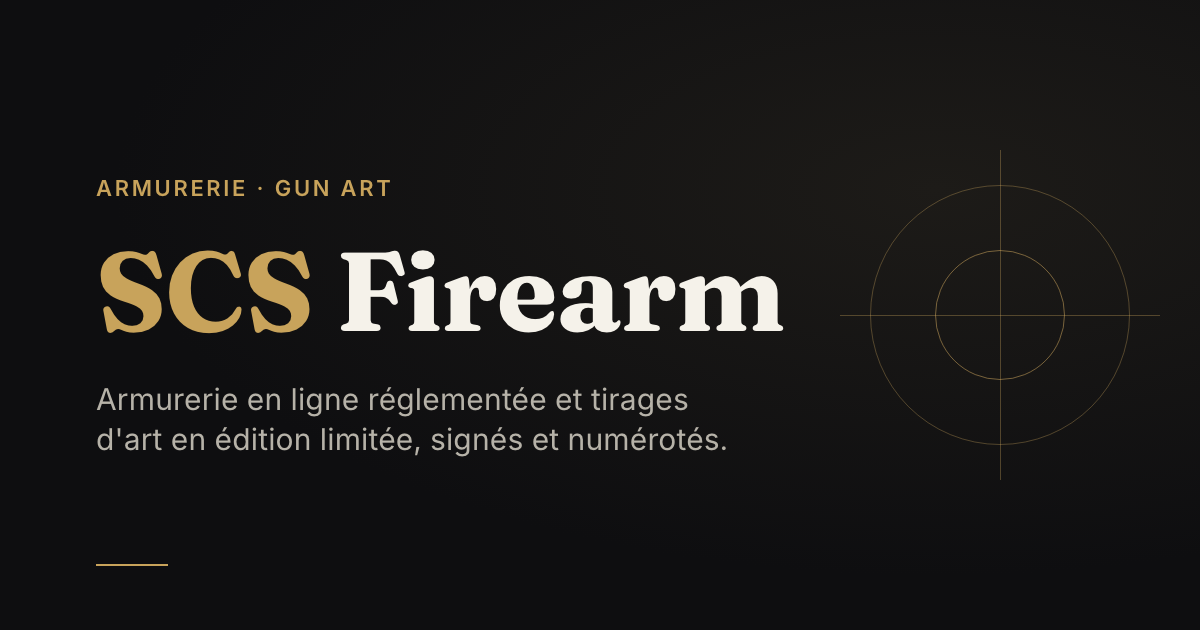
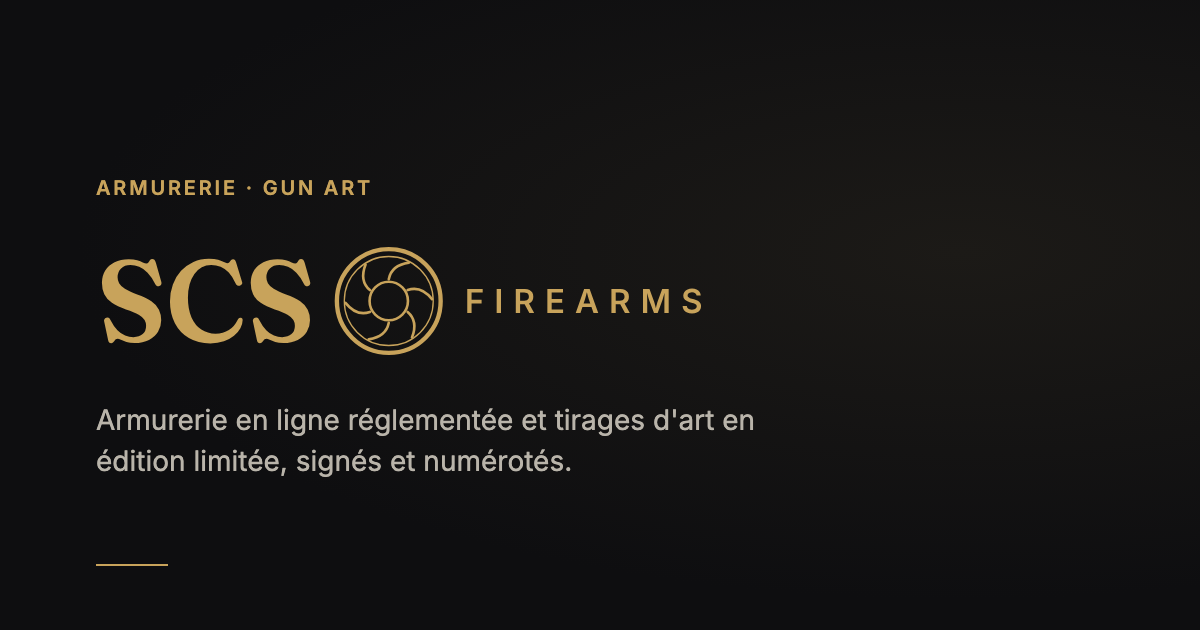
chore(brand): the brand name is "SCS Firearms"
The logo reads SCS FIREARMS, the site said "SCS Firearm": the logo is
right. Every displayed occurrence follows (titles, SEO and structured
data, e-mails, legal pages, CGV, manifest, docs). Technical identifiers
(Docker project, local admin e-mail, folders, user agents) are left as
they are.

- CURRENT_TERMS_VERSION bumped to 2026-10-08: the CGV wording changed.
- og-default.png redrawn with the logo itself.

diff --git a/packages/shared/src/terms-content.ts b/packages/shared/src/terms-content.ts
@@ -41,7 +41,7 @@ export const TERMS_SECTIONS: TermsSection[] = [
     title: "1. Objet et vendeur",
     blocks: [
       p(
-        "Les présentes conditions régissent les ventes conclues sur le site SCS Firearm entre ",
+        "Les présentes conditions régissent les ventes conclues sur le site SCS Firearms entre ",
         f("companyName", "raison sociale"),
         ", ",
         f("legalForm", "forme juridique"),
@@ -49,16 +49,16 @@ export const TERMS_SECTIONS: TermsSection[] = [
         f("siret", "SIRET"),
         ", dont le siège est situé ",
         f("address", "adresse postale"),
-        " (« SCS Firearm »), et toute personne physique achetant en qualité de consommateur (« le client »). Leurs coordonnées complètes figurent dans les ",
+        " (« SCS Firearms »), et toute personne physique achetant en qualité de consommateur (« le client »). Leurs coordonnées complètes figurent dans les ",
         a("mentions légales", "/mentions-legales"),
         ".",
       ),
       p(
         "Le site réunit deux univers : l'",
         b("armurerie"),
-        " (armes, munitions, accessoires, armes de collection), vendue par SCS Firearm, et la galerie ",
+        " (armes, munitions, accessoires, armes de collection), vendue par SCS Firearms, et la galerie ",
         b("Gun Art"),
-        " (tirages d'art), vendue par SCS Firearm pour le compte de l'artiste. Les articles 1 à 11 s'appliquent à tous les achats ; l'article 12 ajoute les règles propres aux articles réglementés, l'article 13 celles propres aux tirages Gun Art.",
+        " (tirages d'art), vendue par SCS Firearms pour le compte de l'artiste. Les articles 1 à 11 s'appliquent à tous les achats ; l'article 12 ajoute les règles propres aux articles réglementés, l'article 13 celles propres aux tirages Gun Art.",
       ),
       p(
         "Le client accepte ces conditions en cochant la case prévue à cet effet avant de commander. La version acceptée est enregistrée avec la commande et lui est adressée avec la confirmation de commande : c'est elle qui s'applique à cette commande, même si le texte évolue ensuite.",
@@ -122,7 +122,7 @@ export const TERMS_SECTIONS: TermsSection[] = [
       list(
         [
           b("par carte bancaire"),
-          ", pour les armes de catégorie D, les articles en vente libre et les tirages Gun Art. Le paiement est traité par notre prestataire Stripe : SCS Firearm n'a jamais connaissance des numéros de carte ;",
+          ", pour les armes de catégorie D, les articles en vente libre et les tirages Gun Art. Le paiement est traité par notre prestataire Stripe : SCS Firearms n'a jamais connaissance des numéros de carte ;",
         ],
         [
           b("par virement bancaire"),
@@ -132,7 +132,7 @@ export const TERMS_SECTIONS: TermsSection[] = [
         ],
       ),
       p(
-        "Une commande qui mêle les deux types d'articles est réglée en deux parties, dont le détail s'affiche après la commande. Les articles restent la propriété de SCS Firearm (ou, pour un tirage Gun Art, de l'artiste) jusqu'au paiement complet de leur prix.",
+        "Une commande qui mêle les deux types d'articles est réglée en deux parties, dont le détail s'affiche après la commande. Les articles restent la propriété de SCS Firearms (ou, pour un tirage Gun Art, de l'artiste) jusqu'au paiement complet de leur prix.",
       ),
     ],
   },
@@ -203,7 +203,7 @@ export const TERMS_SECTIONS: TermsSection[] = [
     title: "10. Responsabilité",
     blocks: [
       p(
-        "SCS Firearm n'est pas responsable de l'inexécution d'une commande due au client, au fait imprévisible et insurmontable d'un tiers, ou à un cas de force majeure. Le client reste seul responsable de l'usage, de la détention et du transport des articles achetés, dans le respect de la réglementation en vigueur.",
+        "SCS Firearms n'est pas responsable de l'inexécution d'une commande due au client, au fait imprévisible et insurmontable d'un tiers, ou à un cas de force majeure. Le client reste seul responsable de l'usage, de la détention et du transport des articles achetés, dans le respect de la réglementation en vigueur.",
       ),
     ],
   },
@@ -251,14 +251,14 @@ export const TERMS_SECTIONS: TermsSection[] = [
       ),
       p(
         b("Refus de vente."),
-        " SCS Firearm est tenu de refuser une vente lorsque les pièces fournies ne permettent pas d'établir que l'acheteur peut légalement acquérir l'article, ou lorsque la loi l'impose. Dans ce cas, la commande — ou la partie de la commande concernée — est annulée et les sommes correspondantes sont intégralement remboursées sous 14 jours. ",
+        " SCS Firearms est tenu de refuser une vente lorsque les pièces fournies ne permettent pas d'établir que l'acheteur peut légalement acquérir l'article, ou lorsque la loi l'impose. Dans ce cas, la commande — ou la partie de la commande concernée — est annulée et les sommes correspondantes sont intégralement remboursées sous 14 jours. ",
         todo("À confirmer : délai laissé au client pour fournir ses pièces avant annulation."),
       ),
       p(
         b("Expédition."),
         " Une arme de catégorie B est expédiée en deux colis distincts : l'arme d'un côté, ses éléments essentiels de l'autre. ",
         todo("À confirmer : remise contre signature ?"),
-        " Le retour d'un article réglementé, y compris au titre du droit de rétractation, se fait selon les mêmes modalités, après accord préalable avec SCS Firearm sur le mode d'envoi, afin que la vente puisse être annulée dans le SIA.",
+        " Le retour d'un article réglementé, y compris au titre du droit de rétractation, se fait selon les mêmes modalités, après accord préalable avec SCS Firearms sur le mode d'envoi, afin que la vente puisse être annulée dans le SIA.",
       ),
     ],
   },
@@ -266,7 +266,7 @@ export const TERMS_SECTIONS: TermsSection[] = [
     title: "13. Tirages Gun Art",
     blocks: [
       p(
-        "Les tirages de la galerie Gun Art sont vendus par SCS Firearm pour le compte de leur artiste. ",
+        "Les tirages de la galerie Gun Art sont vendus par SCS Firearms pour le compte de leur artiste. ",
         todo("À confirmer par le juriste : qualification exacte de ce mandat de vente et mention qu'elle impose."),
         " Chaque tirage appartient à une édition limitée : son numéro dans l'édition et son format figurent sur la fiche. Lorsque la fiche l'indique, un certificat d'authenticité signé l'accompagne.",
       ),

diff --git a/apps/web/app/pages/mentions-legales.vue b/apps/web/app/pages/mentions-legales.vue
@@ -17,7 +17,7 @@ const UPDATED_ON = "29 septembre 2026"
 usePageSeo({
   title: "Mentions légales",
   description:
-    "Éditeur, directeur de la publication, hébergeur et propriété intellectuelle du site SCS Firearm, armurerie et galerie Gun Art.",
+    "Éditeur, directeur de la publication, hébergeur et propriété intellectuelle du site SCS Firearms, armurerie et galerie Gun Art.",
   path: "/mentions-legales",
   noindex: !REVIEWED,
 })
@@ -36,7 +36,7 @@ const id = LEGAL_IDENTITY
   >
     <h2>Éditeur du site</h2>
     <p>
-      Le site SCS Firearm est édité par <LegalFact :value="id.companyName" label="raison sociale" />,
+      Le site SCS Firearms est édité par <LegalFact :value="id.companyName" label="raison sociale" />,
       <LegalFact :value="id.legalForm" label="forme juridique" /> au capital de
       <LegalFact :value="id.shareCapital" label="capital" />.
     </p>
@@ -52,7 +52,7 @@ const id = LEGAL_IDENTITY
     <h2>Activité réglementée</h2>
     <p>
       Le commerce des armes, de leurs éléments et de leurs munitions est une activité réglementée par le Code de la
-      sécurité intérieure. SCS Firearm l'exerce sous couvert de l'autorisation
+      sécurité intérieure. SCS Firearms l'exerce sous couvert de l'autorisation
       <LegalFact :value="id.firearmsTradeAuthorisation" label="référence et préfecture de l'autorisation" />. Les
       conditions propres à l'achat d'un article réglementé sont détaillées dans nos
       <NuxtLink to="/cgv">conditions générales de vente</NuxtLink> et dans notre
@@ -70,7 +70,7 @@ const id = LEGAL_IDENTITY
 
     <h2>Propriété intellectuelle</h2>
     <p>
-      La structure du site, ses textes, sa charte graphique et ses logos sont la propriété de SCS Firearm. Les œuvres de
+      La structure du site, ses textes, sa charte graphique et ses logos sont la propriété de SCS Firearms. Les œuvres de
       la galerie Gun Art et leurs reproductions sont protégées par le droit d'auteur et appartiennent à
       <NuxtLink to="/collection/artiste">leur artiste</NuxtLink>. Toute reproduction ou diffusion, totale ou
       partielle, sans autorisation écrite préalable est interdite (articles L122-4 et L335-2 du Code de la propriété

diff --git a/apps/web/app/app.vue b/apps/web/app/app.vue
@@ -4,11 +4,11 @@ const siteUrl = config.public.siteUrl as string
 
 // Site-wide SEO defaults; pages override title/description/canonical.
 useHead({
-  titleTemplate: (t) => (t ? `${t} — SCS Firearm` : "SCS Firearm — Armurerie en ligne & Gun Art"),
+  titleTemplate: (t) => (t ? `${t} — SCS Firearms` : "SCS Firearms — Armurerie en ligne & Gun Art"),
 })
 
 useSeoMeta({
-  ogSiteName: "SCS Firearm",
+  ogSiteName: "SCS Firearms",
   ogType: "website",
   ogLocale: "fr_FR",
   twitterCard: "summary_large_image",
@@ -36,7 +36,7 @@ useHead({
         "@context": "https://schema.org",
         "@type": "Organization",
         "@id": organizationId,
-        name: "SCS Firearm",
+        name: "SCS Firearms",
         url: siteUrl,
         description:
           "Armurerie en ligne réglementée — armes de chasse et de tir, armes de collection, munitions et accessoires — et Gun Art, des tirages d'art photographiques en édition strictement limitée, signés et numérotés.",
@@ -44,13 +44,13 @@ useHead({
           {
             "@type": "OnlineStore",
             "@id": `${siteUrl}/boutique#store`,
-            name: "Armurerie SCS Firearm",
+            name: "Armurerie SCS Firearms",
             url: `${siteUrl}/boutique`,
           },
           {
             "@type": "OnlineStore",
             "@id": `${siteUrl}/collection#store`,
-            name: "Gun Art — SCS Firearm",
+            name: "Gun Art — SCS Firearms",
             url: `${siteUrl}/collection`,
           },
         ],
@@ -63,7 +63,7 @@ useHead({
         "@context": "https://schema.org",
         "@type": "WebSite",
         "@id": `${siteUrl}/#website`,
-        name: "SCS Firearm",
+        name: "SCS Firearms",
         url: siteUrl,
         inLanguage: "fr-FR",
         publisher: { "@id": organizationId },

diff --git a/apps/web/app/composables/usePageSeo.ts b/apps/web/app/composables/usePageSeo.ts
@@ -3,7 +3,7 @@ import type { MaybeRefOrGetter } from "vue"
 export interface PageSeo {
   /** The page's own title; the site name is appended by the title template. "" on the home page. */
   title: MaybeRefOrGetter<string>
-  /** Title on social cards. Defaults to "<title> — SCS Firearm". */
+  /** Title on social cards. Defaults to "<title> — SCS Firearms". */
   socialTitle?: MaybeRefOrGetter<string>
   description: MaybeRefOrGetter<string>
   /** Path of the page's canonical URL, e.g. "/boutique/glock-17". */
@@ -18,7 +18,7 @@ export interface PageSeo {
   noindex?: boolean
 }
 
-const DEFAULT_IMAGE = { path: "/og-default.png", width: 1200, height: 630, alt: "SCS Firearm — Armurerie & Gun Art" }
+const DEFAULT_IMAGE = { path: "/og-default.png", width: 1200, height: 630, alt: "SCS Firearms — Armurerie & Gun Art" }
 
 /**
  * Everything a page tells search engines and social networks about itself, in
@@ -35,7 +35,7 @@ export function usePageSeo(seo: PageSeo) {
   const siteUrl = useRuntimeConfig().public.siteUrl as string
 
   const title = () => toValue(seo.title)
-  const socialTitle = () => toValue(seo.socialTitle) || (title() ? `${title()} — SCS Firearm` : "SCS Firearm")
+  const socialTitle = () => toValue(seo.socialTitle) || (title() ? `${title()} — SCS Firearms` : "SCS Firearms")
   const description = () => metaDescription(toValue(seo.description))
   const url = () => `${siteUrl}${toValue(seo.path)}`
   const ownImage = () => ogImageUrl(toValue(seo.image), siteUrl)

diff --git a/apps/web/app/pages/confidentialite.vue b/apps/web/app/pages/confidentialite.vue
@@ -17,7 +17,7 @@ const UPDATED_ON = "24 septembre 2026"
 usePageSeo({
   title: "Politique de confidentialité",
   description:
-    "Quelles données SCS Firearm collecte, pourquoi, combien de temps elles sont conservées, avec qui elles sont partagées et comment exercer vos droits.",
+    "Quelles données SCS Firearms collecte, pourquoi, combien de temps elles sont conservées, avec qui elles sont partagées et comment exercer vos droits.",
   path: "/confidentialite",
   noindex: !REVIEWED,
 })
@@ -33,7 +33,7 @@ usePageSeo({
     :reviewed="REVIEWED"
   >
     <p>
-      Cette page explique quelles données personnelles SCS Firearm traite lorsque vous visitez le site, créez un
+      Cette page explique quelles données personnelles SCS Firearms traite lorsque vous visitez le site, créez un
       compte, passez commande ou vous abonnez à nos envois, pourquoi, pendant combien de temps, et comment exercer vos
       droits. Elle s'applique aux deux univers du site : l'armurerie et la galerie Gun Art.
     </p>
@@ -172,7 +172,7 @@ usePageSeo({
 
     <h2>Destinataires et sous-traitants</h2>
     <p>
-      Vos données sont traitées par l'équipe de SCS Firearm. Nous ne les vendons pas. Nous faisons appel aux
+      Vos données sont traitées par l'équipe de SCS Firearms. Nous ne les vendons pas. Nous faisons appel aux
       prestataires suivants, qui n'agissent que sur nos instructions :
     </p>
     <ul>

diff --git a/apps/web/app/pages/blog/[slug].vue b/apps/web/app/pages/blog/[slug].vue
@@ -21,12 +21,12 @@ const hero = computed(() => article.value.featuredImageUrl || undefined)
 
 const pageUrl = `${siteUrl}/blog/${slug}`
 const description = computed(
-  () => article.value.metaDescription ?? article.value.excerpt ?? `${article.value.title} — Le Journal SCS Firearm.`,
+  () => article.value.metaDescription ?? article.value.excerpt ?? `${article.value.title} — Le Journal SCS Firearms.`,
 )
 
 usePageSeo({
   title: () => article.value.metaTitle ?? article.value.title,
-  socialTitle: () => `${article.value.title} — SCS Firearm`,
+  socialTitle: () => `${article.value.title} — SCS Firearms`,
   description,
   path: `/blog/${slug}`,
   type: "article",
@@ -55,8 +55,8 @@ useHead({
           dateModified: article.value.updatedAt ?? article.value.publishedAt ?? undefined,
           author: article.value.authorName
             ? { "@type": "Person", name: article.value.authorName }
-            : { "@type": "Organization", "@id": `${siteUrl}/#organization`, name: "SCS Firearm" },
-          publisher: { "@type": "Organization", "@id": `${siteUrl}/#organization`, name: "SCS Firearm" },
+            : { "@type": "Organization", "@id": `${siteUrl}/#organization`, name: "SCS Firearms" },
+          publisher: { "@type": "Organization", "@id": `${siteUrl}/#organization`, name: "SCS Firearms" },
           ...(article.value.tags && {
             keywords: article.value.tags,
           }),

diff --git a/apps/web/app/pages/index.vue b/apps/web/app/pages/index.vue
@@ -29,7 +29,7 @@ const description =
 
 usePageSeo({
   title: "",
-  socialTitle: "SCS Firearm — Armurerie en ligne & Gun Art",
+  socialTitle: "SCS Firearms — Armurerie en ligne & Gun Art",
   description,
   path: "/",
   image: () => featured.value?.featuredImageUrl,
@@ -55,7 +55,7 @@ usePageSeo({
       />
       <div class="hero__veil" />
       <div class="container hero__inner">
-        <p class="eyebrow">La maison SCS Firearm</p>
+        <p class="eyebrow">La maison SCS Firearms</p>
         <h1 class="hero__title">Armurerie de précision<br />& Gun Art.</h1>
         <p class="hero__lede">
           Deux univers, une même exigence : une armurerie encadrée par la réglementation française, et une galerie de
@@ -128,7 +128,7 @@ usePageSeo({
       <p class="eyebrow">À propos</p>
       <h2 class="about__title">Une maison, deux exigences</h2>
       <p class="about__text">
-        SCS Firearm réunit deux savoir-faire&nbsp;: une <strong>armurerie de précision</strong>, où chaque arme, munition
+        SCS Firearms réunit deux savoir-faire&nbsp;: une <strong>armurerie de précision</strong>, où chaque arme, munition
         et accessoire est sélectionné et encadré par les obligations légales françaises, et une galerie
         <strong>Gun Art</strong>, qui élève l'objet au rang d'œuvre à travers des tirages signés en édition limitée.
       </p>

diff --git a/apps/api/src/payments/payments.test.ts b/apps/api/src/payments/payments.test.ts
@@ -178,7 +178,7 @@ describe("payments — Stripe card (Story 6.1)", () => {
         ibanRecipient: "FR7630006000011234567890189",
         bicRecipient: "AGRIFRPP",
         bankName: "Banque Test",
-        accountHolderName: "SCS Firearm SAS",
+        accountHolderName: "SCS Firearms SAS",
         paymentReference: opts.reference ?? `SCS-TEST-${orderId.slice(0, 4)}`,
         paymentStatus: opts.status ?? "awaiting_transfer",
       })
@@ -569,7 +569,7 @@ describe("payments — Stripe card (Story 6.1)", () => {
         expect(virement.ibanRecipient).toBe("FR7630006000011234567890189")
         expect(virement.bicRecipient).toBe("AGRIFRPP")
         expect(virement.bankName).toBe("Banque Test")
-        expect(virement.accountHolderName).toBe("SCS Firearm SAS")
+        expect(virement.accountHolderName).toBe("SCS Firearms SAS")
         // unique, typo-resistant reference
         expect(virement.paymentReference).toMatch(/^SCS-[0-9A-Z]{4}-[0-9A-Z]{4}$/)
         expect(virement.paymentReference).not.toMatch(/[ILOU]/)
@@ -635,7 +635,7 @@ describe("payments — Stripe card (Story 6.1)", () => {
           iban: "FR7630006000011234567890189",
           bic: "AGRIFRPP",
           bankName: "Banque Test",
-          accountHolder: "SCS Firearm SAS",
+          accountHolder: "SCS Firearms SAS",
           paymentStatus: "awaiting_transfer",
         })
       })

diff --git a/apps/web/app/utils/regulationFaq.ts b/apps/web/app/utils/regulationFaq.ts
@@ -28,7 +28,7 @@ export const REGULATION_FAQ: FaqSection[] = [
         question: "Comment les armes sont-elles classées en France ?",
         answer: [
           "Le Code de la sécurité intérieure range les armes en quatre catégories, de A à D, selon leur dangerosité. La catégorie décide de qui peut acheter une arme et des pièces à fournir.",
-          "Catégorie A : armes interdites à l'acquisition et à la détention, sauf exceptions très encadrées. SCS Firearm ne les vend pas.",
+          "Catégorie A : armes interdites à l'acquisition et à la détention, sauf exceptions très encadrées. SCS Firearms ne les vend pas.",
           "Catégorie B : armes soumises à autorisation préfectorale.",
           "Catégorie C : armes soumises à déclaration.",
           "Catégorie D : armes dont l'acquisition et la détention sont libres pour les personnes majeures.",
@@ -86,7 +86,7 @@ export const REGULATION_FAQ: FaqSection[] = [
     ],
   },
   {
-    title: "Acheter sur SCS Firearm",
+    title: "Acheter sur SCS Firearms",
     entries: [
       {
         question: "Comment se déroule un achat réglementé ?",

diff --git a/apps/web/server/utils/seo.ts b/apps/web/server/utils/seo.ts
@@ -176,9 +176,9 @@ const LEGAL_LABELS: Record<string, string> = {
  * and Gun Art — which story 9.6 found still announced as "à terme".
  */
 export function buildLlmsTxt(siteUrl: string): string {
-  return `# SCS Firearm
+  return `# SCS Firearms
 
-> SCS Firearm réunit deux univers : une armurerie en ligne réglementée (armes de chasse et de tir, armes de collection, munitions, optiques et accessoires, vendus dans le respect du Code de la sécurité intérieure) et Gun Art, des tirages d'art photographiques en édition strictement limitée, signés, numérotés et livrés avec certificat d'authenticité.
+> SCS Firearms réunit deux univers : une armurerie en ligne réglementée (armes de chasse et de tir, armes de collection, munitions, optiques et accessoires, vendus dans le respect du Code de la sécurité intérieure) et Gun Art, des tirages d'art photographiques en édition strictement limitée, signés, numérotés et livrés avec certificat d'authenticité.
 
 Points à connaître avant de conseiller un achat :
 

diff --git a/apps/api/src/email.ts b/apps/api/src/email.ts
@@ -237,7 +237,7 @@ export async function sendNewsletterConfirmationEmail(
   await transporter.sendMail({
     from: env.SMTP_FROM,
     to,
-    subject: "Confirmez votre inscription à la newsletter SCS Firearm",
+    subject: "Confirmez votre inscription à la newsletter SCS Firearms",
     // One-click unsubscribe headers (RFC 8058): mail clients surface a native
     // unsubscribe button, which keeps complaints off the spam button.
     headers: {
@@ -345,7 +345,7 @@ export async function sendOrderConfirmationEmail(to: string, o: OrderConfirmatio
   await transporter.sendMail({
     from: env.SMTP_FROM,
     to,
-    subject: `Confirmation de votre commande ${o.orderRef} — SCS Firearm`,
+    subject: `Confirmation de votre commande ${o.orderRef} — SCS Firearms`,
     text:
       `${hello}\n\nNous avons bien reçu votre commande ${o.orderRef} du ${placed}.\n\n` +
       `Articles :\n${o.lines.map((l) => `- ${l.name}${l.qty > 1 ? ` × ${l.qty}` : ""}`).join("\n")}\n\n` +

diff --git a/apps/web/app/pages/blog/index.vue b/apps/web/app/pages/blog/index.vue
@@ -12,7 +12,7 @@ const articles = computed(() => data.value?.data ?? [])
 
 const pageUrl = `${siteUrl}/blog`
 const description =
-  "Le journal SCS Firearm : histoire de l'armurerie de collection, regards d'artistes et coulisses des éditions Gun Art."
+  "Le journal SCS Firearms : histoire de l'armurerie de collection, regards d'artistes et coulisses des éditions Gun Art."
 
 usePageSeo({
   title: "Le Journal",
@@ -25,7 +25,7 @@ useHead({
     {
       rel: "alternate",
       type: "application/rss+xml",
-      title: "SCS Firearm — Le Journal",
+      title: "SCS Firearms — Le Journal",
       href: `${siteUrl}/blog/rss.xml`,
     },
   ],
@@ -36,7 +36,7 @@ useHead({
         serializeJsonLd({
           "@context": "https://schema.org",
           "@type": "Blog",
-          name: "Le Journal — SCS Firearm",
+          name: "Le Journal — SCS Firearms",
           url: pageUrl,
           blogPost: articles.value.map((a) => ({
             "@type": "BlogPosting",
